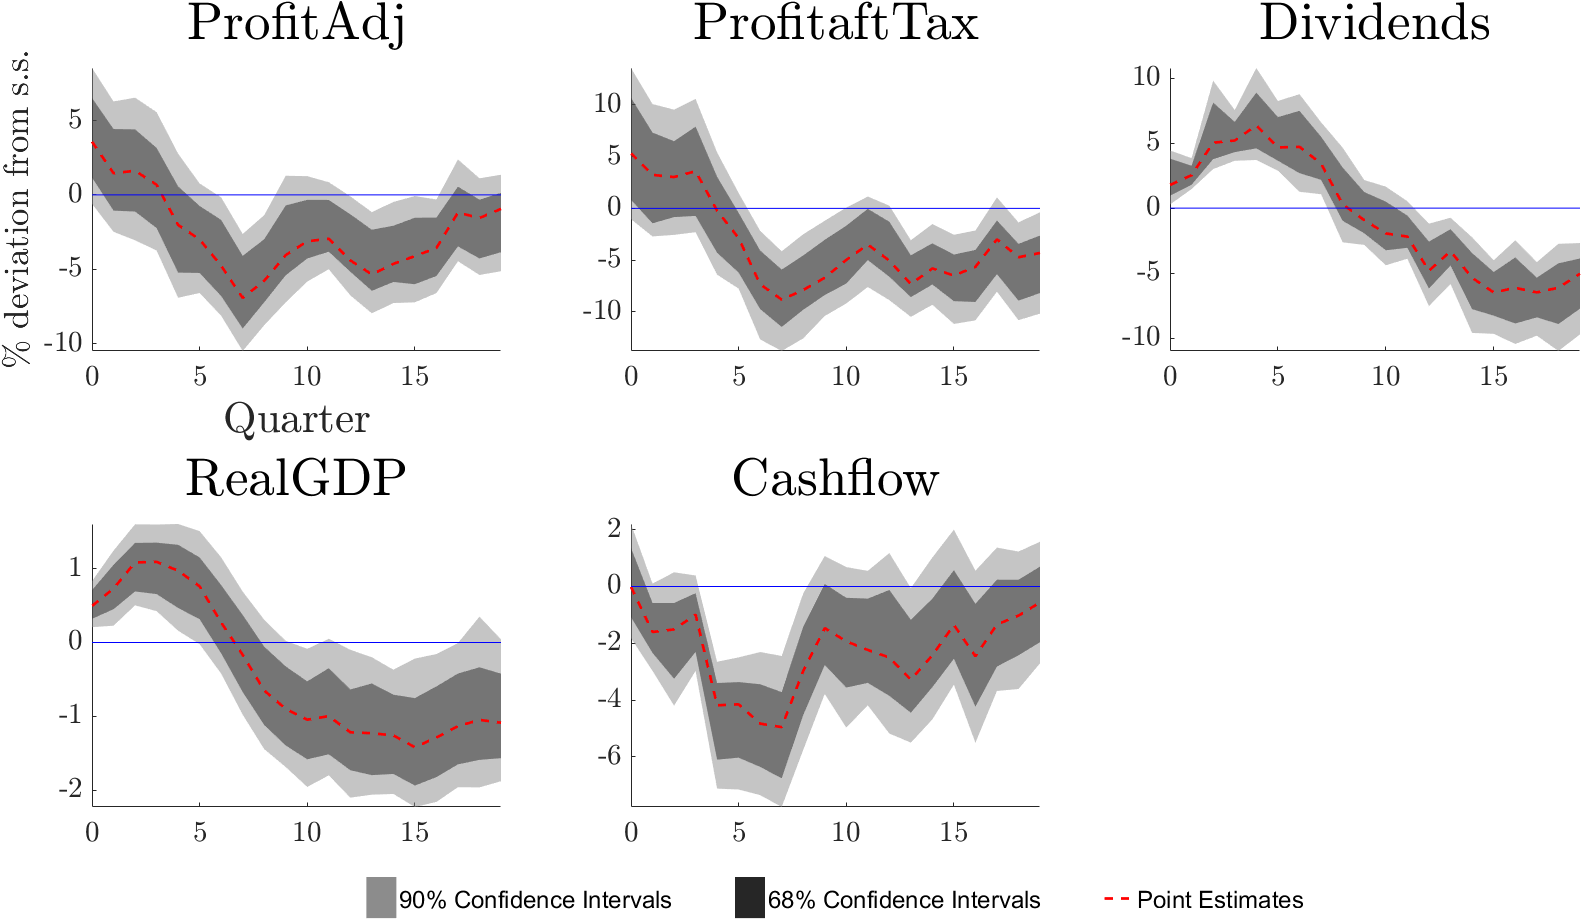
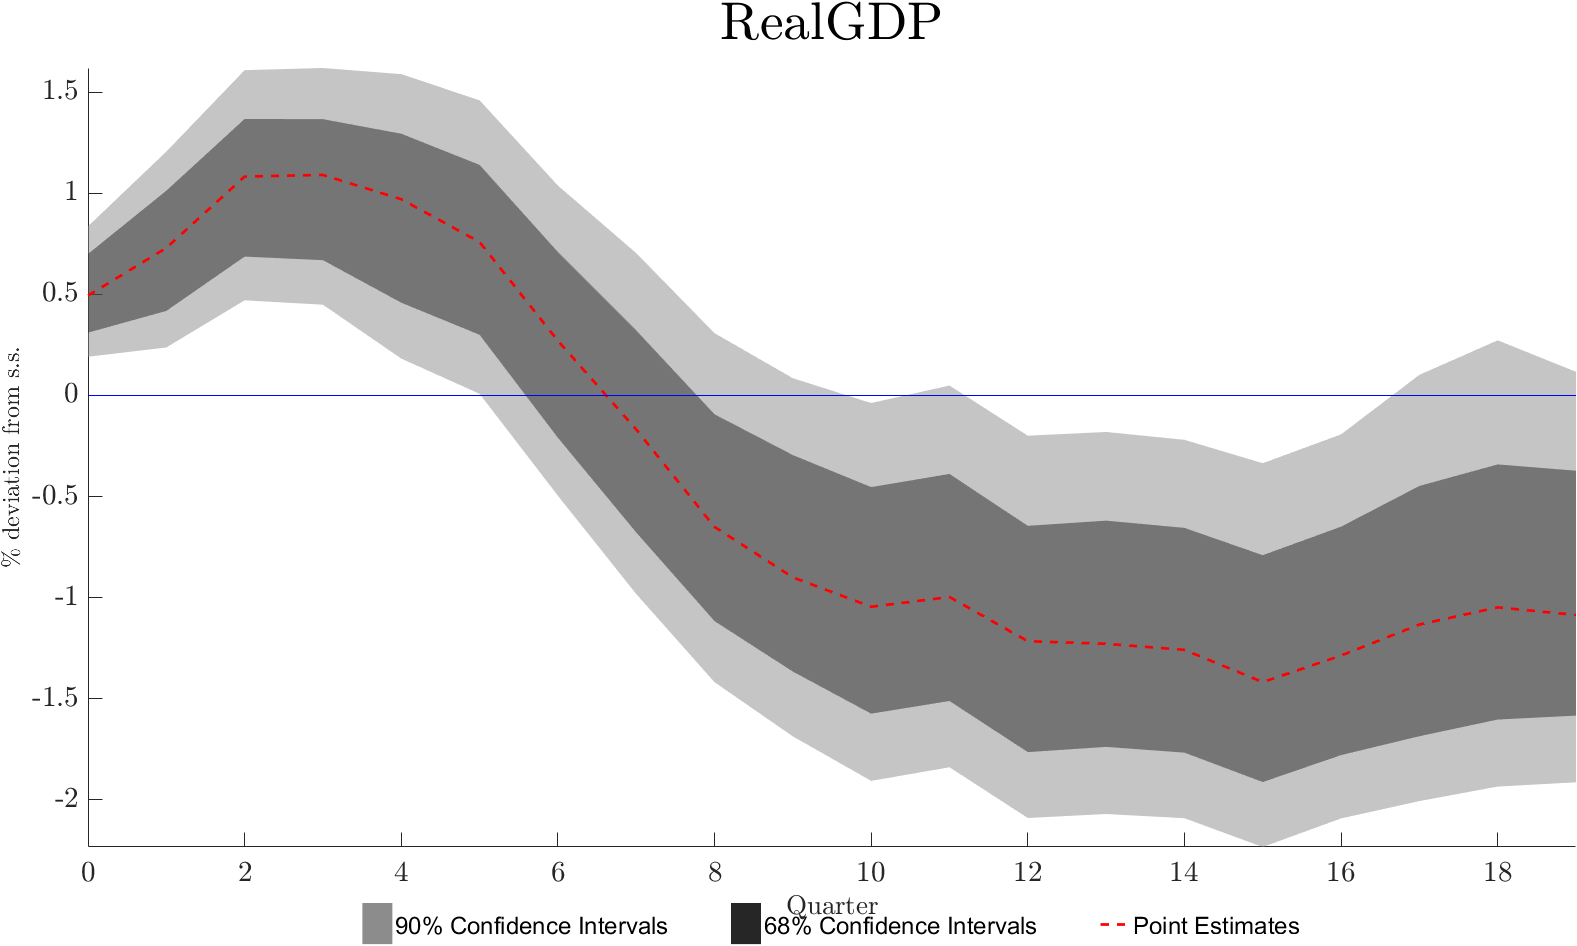
last changes before going to Dropbox

diff --git a/main_file_May2019.m b/main_file_May2019.m
@@ -3,6 +3,7 @@
 %    Code by Brianti, Marco e Cormun, Vito
 %*************************************************************************%
 
+tic
 clear
 close all
 
@@ -14,7 +15,7 @@ load('TechShock_identification.mat');
 lags                = 4;             % Number of lags in the first step (deriving Ztilde)
 leads               = 0;             % Number of leads in the first step (deriving Ztilde)
 H                   = 20;            % IRFs horizon
-lags_LP             = 2;            % Number of lags in the Local Projection
+lags_LP             = 2;             % Number of lags in the Local Projection
 which_trend         = 'quad';        %'BP', 'HP', 'lin', 'quad', 'none', 'demean' for Local Projection
 which_Z             = {'1','2','3','4','5'}; % Which Forecast Revision: RGDP, NGDP, RCONS, INDPROD, RINV. If it is more than one it takes the first PC
 which_shock         = {'Sentiment','Tech'};      % Tech, News, Sentiment
@@ -24,11 +25,11 @@ nPC_first           = 3;             % Number of Principal Components in the fir
 nPC_LP              = 2;             % Number of Principal Components in the second stage
 norm_SHOCK          = 0;             % Divide shock over its own variance
 printIRFs           = 1;             % Print IRFs
-printVD             = 0;              % Print Variance Decompositions
-nsimul              = 500;           % number of simulations for bootstrap
+printVD             = 0;             % Print Variance Decompositions
+nsimul              = 10000;          % number of simulations for bootstrap
 control_pop         = 0;             % Divide GDP, Cons, Hours, Investment over population
-varlist             = {'ProfitAdj','ProfitaftTax','Dividends','RealGDP','Cashflow'};%{'RealGDP','RealInvestment','RealCons','HoursAll'};%{'ProfitAdj','ProfitbefTax','ProfitaftTax','Dividends','RealGDP','Cashflow'};%{'HoursAll','Hours','HoursPerPerson','UnempRate','Employment'};%,'GDPDefl','FFR'}; % Define endogenous variables for LP
-varlist_graph       = varlist; %{'RealGDP','RealInvestment','RealCons','Hours'};
+varlist             = {'RealGDP'};   %,'RealCons','RealInvestment','HoursAll'};   %{'RealGDP','RealInvestment','RealCons','HoursAll'};%{'ProfitAdj','ProfitbefTax','ProfitaftTax','Dividends','RealGDP','Cashflow'};%{'HoursAll','Hours','HoursPerPerson','UnempRate','Employment'};%,'GDPDefl','FFR'}; % Define endogenous variables for LP
+varlist_graph       = varlist;       %{'RealGDP','RealInvestment','RealCons','Hours'};
 
 % Read main dataset
 filename                    = 'main_file';
@@ -125,7 +126,7 @@ UndistProf              = UndistributedProfits - GDPDefl;
 Cashflow                = CashFlow - GDPDefl;
 CorpEqui2Assets         = NonFinEquity - GDPDefl;
 Epay                    = 100*EPayout./exp(RealGDP);%./exp(ValueAddedNFCorp); %./exp(RealGDP);
-Drep                    = 100*DebtRep./exp(RealGDP);%./exp(ValueAddedNFCorp); %./exp(RealGDP); 
+Drep                    = 100*DebtRep./exp(RealGDP);%./exp(ValueAddedNFCorp); %./exp(RealGDP);
 % ProfAdj                 = CorpProfitsAdj - NonFinEquity;
 % ProfbT                  = CorpProfitsbefTax - NonFinEquity;
 % Prof                    = CorpProfitsNoAdj - NonFinEquity;
@@ -199,6 +200,7 @@ for is = 1:length(which_shock)
             depvarkk                           = dep_var(:,kk);
             [~, loc_start(kk,is), loc_end]     = truncate_data([depvarkk SHOCK PC_LP]);
             depvarkk                           = depvarkk(loc_start(kk,is):loc_end);
+            TT(kk,is)                          = length(depvarkk);
             SHOCKkk                            = SHOCK(loc_start(kk,is):loc_end);
             pckk                               = PC_LP(loc_start(kk,is):loc_end,:);
             
@@ -256,18 +258,21 @@ end
 % Technical Parameters
 tech_info_table;
 
-asd
-
 %*************************************************************************%
 %                                                                         %
 %                        Test Cyclicality - Canova                        %
 %                                                                         %
 %*************************************************************************%
 
+fprintf('\n')
+fprintf('\n')
+fprintf('\n')
+disp('Test Cyclicality')
+fprintf('\n')
 % Simulate AR(1), Estimate IRFs via LP, Generate Spectral Density
 rho             = 0;    % rho = 0, Hnull: flat spectral density, otherwise rho should be estimated from data as im BG
-sigm            = 1;    % variance of disturbances (shocks)
-T               = 1000; % Asyntotic (Maybe should be the same length) !!!
+sigm            = nanvar(SHOCK)^0.5;    % variance of disturbances (shocks)
+T               = max(max(TT)); % Asyntotic (Maybe should be the same length) !!!
 show_fig_AR_LP  = 1;
 show_fig_AR_SD  = 1;
 [IRF_AR,IRF_boot_AR] = generate_AR1_LP_IRF(rho,sigm,T,H,nsimul,sig,sig2,show_fig_AR_LP);
@@ -275,6 +280,7 @@ show_fig_AR_SD  = 1;
 [SD_AR(:,1),SD_AR_UP(:,1),SD_AR_LOW(:,1), ...
       SD_AR_UP2(:,1),SD_AR_LOW2(:,1),SD_AR_MED(:,1),SD_AR_boot,period] ...
       = spectral_density_MA(IRF_AR,IRF_boot_AR,sig,sig2,show_fig_AR_SD);
+
 
 %Generate Empirical Spectral Density
 show_fig_SD  = 1;
@@ -325,18 +331,21 @@ end
 
 %Compute average spectral density, D1, around the peak  and average
 %spectral density around the trough, D2
-lpeak_low    = 35; %should be adjusted with steps and IRF horizon
-lpeak_up     = 45;
+lpeak_low    = 30; %should be adjusted with steps and IRF horizon
+lpeak_up     = 40;
 ltrough_low  = 60;
 ltrough_up   = 70;
 for iv = 1:length(varlist)
       for is = 1:length(which_shock)
             pval(is,iv) = test_canova_peak_sdensity(lpeak_low,lpeak_up,ltrough_low,ltrough_up,...
-                  SD_boot(:,:,iv,is),SD_AR,period,nsimul);
+                  SD_boot(:,:,iv,is),SD_AR_boot,period,nsimul);
       end
 end
+format longG
 tech_info_test;
 toc
+
+%save WorkSpace_TenThousands_Simulations_Spectrum
 
 % %Check Overreaction and Underreaction conditional on a shock  - adjust FE
 % timing

diff --git a/spectrum.m b/spectrum.m
@@ -29,6 +29,9 @@ for k = 1 : nsimul                 % loop over bootstrap simulations
       end
       % Store spect
       spect(:,k) = sp;
+      if k/50 == ceil(k/50)
+            disp(['Spectrum: simulation number ',num2str(k)])
+      end
 end
 
 periodicity = 2*pi./omega;
